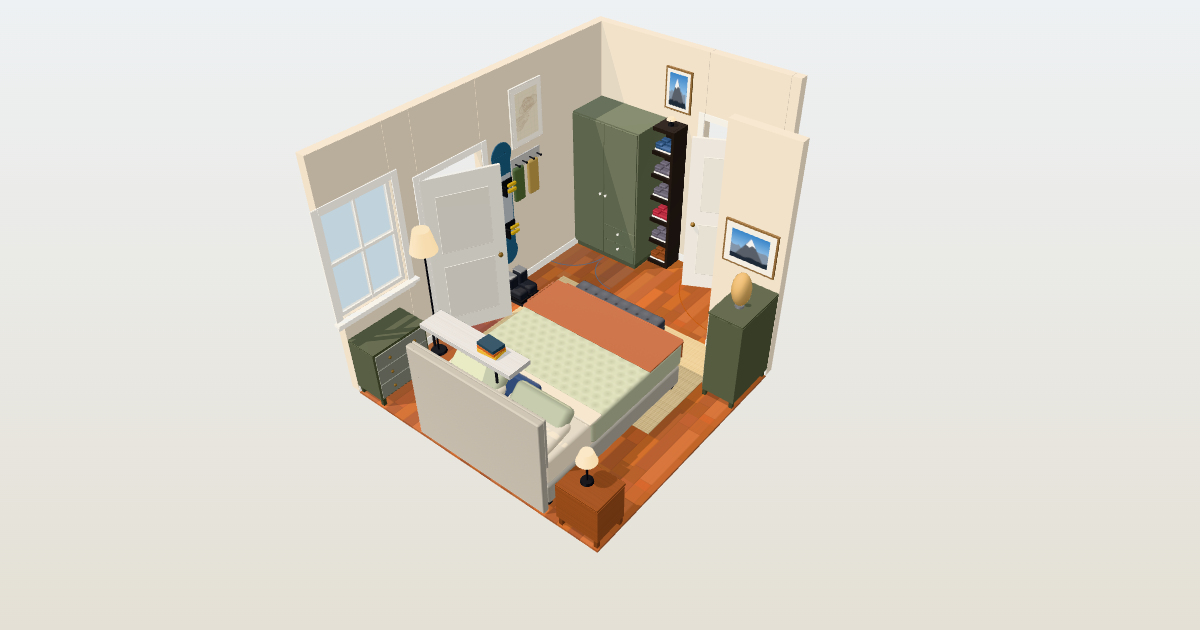
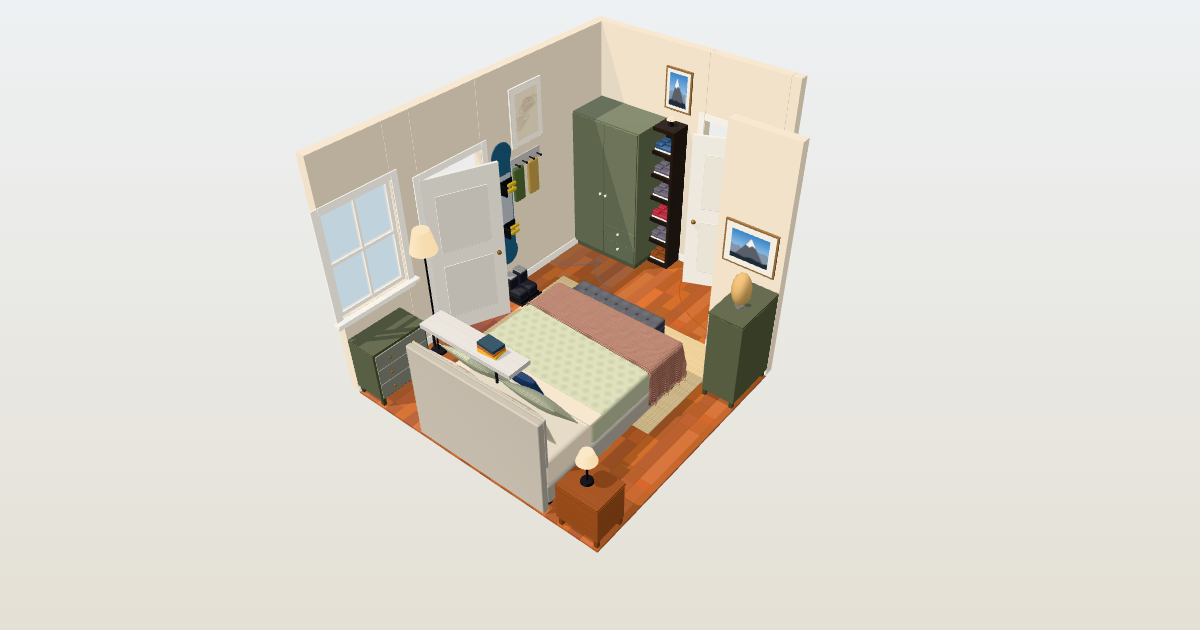
feat(bed): stuffed pillows and a draped knit throw
The pillows and throw were rounded boxes. Each pillow is now a stuffed
shape with a seam, corner ears, creases and an optional head dent: the
linen sleeping pillows stand against the headboard, the quilted shams
lean on them, and a piped, matte indigo lumbar leans on the shams.

The throw is one chunky-knit cloth folded across the foot. It rolls over
the rounded edges, gathers into folds and a scalloped hem as it hangs,
and ends in a knotted fringe. throwRoom() in core.js measures the clear
space beside the foot, so the throw hangs only where there are at least
6 in clear and rests on the bench instead of passing through it. The
window and corner layouts had pushed it 3 to 4 in into a wall.

diff --git a/site/index.html b/site/index.html
@@ -434,9 +434,9 @@ const fabricTex = (() => {
   t.repeat.set(14, 7);
   return t;
 })();
-const fabricMat = c => cached("fabric" + col(c).getHexString(), () => new THREE.MeshPhysicalMaterial({
+const fabricMat = (c, sheen = 0.8) => cached(`fabric${col(c).getHexString()}/${sheen}`, () => new THREE.MeshPhysicalMaterial({
   color: col(c), map: fabricTex, bumpMap: fabricTex, bumpScale: 0.35, roughness: 0.9,
-  sheen: 0.8, sheenRoughness: 0.6, sheenColor: shade(c, 0.4)
+  sheen, sheenRoughness: 0.6, sheenColor: shade(c, 0.4)
 }));
 // Femi's bed is upholstered in a light heather grey: frame, rails and a channel-tufted headboard.
 const BED_FABRIC = "#b8b5ae";
@@ -566,6 +566,151 @@ const rugMat = (c, name, aspect) => cached(`rug${c}/${/jute/.test(name)}/${aspec
   })
 }));
 
+// A stuffed pillow, lying flat: u runs across its width and v along its length, both -1 to 1, and
+// side is 1 for the top and -1 for the underside. The two halves meet at a seam round the edge, the
+// stuffing pulls the middle of each edge in so the corners stick out as ears, the underside settles
+// flatter than the top, creases fan in from each corner, and `dent` sinks the middle where a head goes.
+function pillowPoint(u, v, side, o) {
+  const { w, len, t, seed = 0, dent = 0 } = o;
+  const puff = Math.pow(Math.max(0, (1 - u * u) * (1 - v * v)), 0.55), inset = 0.22 * t;
+  const x = u * (w / 2 - inset * (1 - v * v)), z = v * (len / 2 - inset * (1 - u * u));
+  const cu = 1 - Math.abs(u), cv = 1 - Math.abs(v), corner = Math.exp(-(cu * cu + cv * cv) / 0.07);
+  const crease = 0.1 * t * corner * Math.sin(Math.atan2(cv, cu) * 9 + seed * 2.1 + side) * Math.sqrt(puff);
+  const lump = 0.04 * t * Math.sin(u * 3.1 + seed) * Math.sin(v * 2.6 + seed * 1.7) * puff;
+  let y = (side > 0 ? 1 : 0.75) * side * (t / 2) * puff + crease + lump;
+  if (side > 0) y -= dent * 0.32 * t * Math.exp(-((u / 0.45) ** 2) - ((v / 0.5) ** 2)) * puff;
+  return [x, y, z];
+}
+// Where a point of a cloth laid flat over a bed ends up once it drapes. The bed's top is at `top`,
+// between x0 and x1 and up to its foot at z1, with edges rounded to radius r. Cloth past an edge rolls
+// over it and hangs straight down, past a corner it falls in a cone so the corner hangs lowest, it
+// gathers into folds the further it hangs, and any that reaches the floor lies on it. `rest` is the
+// height of anything past the foot that the cloth lies on.
+function drapePoint(px, pz, b) {
+  const { x0, x1, z1, top, r, floor = 0, seed = 0, folds = 1 } = b;
+  const sx = px > (x0 + x1) / 2 ? 1 : -1, edge = sx > 0 ? x1 : x0;
+  const ex = sx * (px - edge) + r, ez = pz - z1 + r;
+  if (ex <= 0 && ez <= 0) return [px, top, pz];
+  // how far past the start of the rounding, which way it falls, and where it is along the edge
+  let e, dir, s;
+  if (ez <= 0) { e = ex; dir = [sx, 0]; s = ez; }
+  else if (ex <= 0) { e = ez; dir = [0, 1]; s = ez * Math.PI / 2 - ex; }
+  else { e = Math.hypot(ex, ez); const phi = Math.atan2(ez, ex); dir = [sx * Math.cos(phi), Math.sin(phi)]; s = e * phi; }
+  const arc = Math.PI * r / 2;
+  let out = e < arc ? r * Math.sin(e / r) : r, drop = e < arc ? r * (1 - Math.cos(e / r)) : r + e - arc;
+  const hang = folds * Math.min(2.6, Math.max(0, e - r) * 0.2);
+  const fold = hang * (0.5 + 0.3 * Math.sin(s * 0.75 + seed) + 0.2 * Math.sin(s * 1.9 + seed * 3) * Math.cos(s * 0.31 + seed));
+  out += fold;
+  drop -= 0.6 * fold * Math.min(1, Math.max(0, e - arc) / 8);
+  const cx = ex > 0 ? edge - sx * r : px, cz = ez > 0 ? z1 - r : pz;
+  // a surface past the foot, such as a bench, catches the cloth; the catch fades in round the corner
+  // as the cloth moves out over the foot, so the long side's hang meets it without a tear
+  if (b.rest !== undefined && ez > 0) {
+    const k = Math.min(1, Math.max(0, dir[1] * out / r)), limit = (top - b.rest) / Math.max(k * k * (3 - 2 * k), 1e-6);
+    drop = Math.min(drop, limit);
+  }
+  if (top - drop < floor) { out += floor - (top - drop); drop = top - floor; }
+  return [cx + dir[0] * out, top - drop, cz + dir[1] * out];
+}
+// A grid of points as one smooth surface; at(i, j) gives each point and its texture coordinate.
+function gridGeometry(nu, nv, at, flip = false) {
+  const pos = [], uv = [], idx = [];
+  for (let j = 0; j <= nv; j++) for (let i = 0; i <= nu; i++) { const [p, t] = at(i, j); pos.push(...p); uv.push(...t); }
+  for (let j = 0; j < nv; j++) for (let i = 0; i < nu; i++) {
+    const a = j * (nu + 1) + i, b = a + 1, c = a + nu + 1, d = c + 1;
+    idx.push(...(flip ? [a, b, c, b, d, c] : [a, c, b, b, c, d]));
+  }
+  const geo = new THREE.BufferGeometry();
+  geo.setAttribute("position", new THREE.Float32BufferAttribute(pos, 3));
+  geo.setAttribute("uv", new THREE.Float32BufferAttribute(uv, 2));
+  geo.setIndex(idx);
+  geo.computeVertexNormals();
+  return geo;
+}
+// A cord along a run of points, for piping, hems and the folded edge of a throw.
+function cord(g, pts, radius, m, closed = false) {
+  const curve = new THREE.CatmullRomCurve3(pts.map(p => new THREE.Vector3(...p)), closed);
+  g.add(new THREE.Mesh(new THREE.TubeGeometry(curve, pts.length * 2, radius, 6, closed), m));
+}
+// A pillow (see pillowPoint) placed with its middle at (x, y, z). `stand` tips it back from lying
+// flat, in radians, so the far end rests against whatever is behind it. `welt` pipes the seam.
+function pillow(g, { w, len, t, x, y, z, stand = 0, m, under = m, welt, seed = 0, dent = 0 }) {
+  const o = { w, len, t, seed, dent }, n = 40, at = side => (i, j) => {
+    const u = -1 + 2 * i / n, v = -1 + 2 * j / n;
+    return [pillowPoint(u, v, side, o), [i / n, j / n]];
+  };
+  const p = new THREE.Group();
+  p.add(new THREE.Mesh(gridGeometry(n, n, at(1)), m), new THREE.Mesh(gridGeometry(n, n, at(-1), true), under));
+  if (welt) {
+    const ring = [];
+    for (let k = 0; k < 4 * n; k++) {
+      const s = k % n / n * 2 - 1, edge = Math.floor(k / n);
+      ring.push(pillowPoint(...[[s, -1], [1, s], [-s, 1], [-1, -s]][edge], 1, o));
+    }
+    cord(p, ring, 0.22, welt, true);
+  }
+  p.position.set(x, y, z);
+  p.rotation.x = stand;
+  g.add(p);
+  return p;
+}
+// A chunky stocking-stitch knit: columns of V-shaped stitches, each leg a plump twisted loop.
+const knitTex = (() => {
+  const t = canvasTex(256, 256, (g, w, h) => {
+    const r = rng("knit"), cols = 4, rows = 5, cw = w / cols, rh = h / rows;
+    g.fillStyle = "#7c7c7c"; g.fillRect(0, 0, w, h);
+    for (let j = -1; j <= rows; j++) for (let i = 0; i < cols; i++) for (const s of [-1, 1]) {
+      const x = i * cw + cw / 2 + s * cw * 0.2, y = j * rh + rh * 0.5;
+      g.save(); g.translate(x, y); g.rotate(s * 0.5);
+      const lit = 238 + Math.floor(r() * 17), grad = g.createLinearGradient(-cw * 0.2, 0, cw * 0.2, 0);
+      grad.addColorStop(0, "rgb(150,150,150)"); grad.addColorStop(0.45, `rgb(${lit},${lit},${lit})`); grad.addColorStop(1, "rgb(160,160,160)");
+      g.fillStyle = grad; g.beginPath(); g.ellipse(0, 0, cw * 0.19, rh * 0.6, 0, 0, 7); g.fill();
+      // the twist of the yarn across each leg
+      g.strokeStyle = "rgba(0,0,0,.12)"; g.lineWidth = 2;
+      for (let k = -2; k <= 2; k++) { g.beginPath(); g.moveTo(-cw * 0.16, k * rh * 0.2 - 4); g.lineTo(cw * 0.16, k * rh * 0.2 + 4); g.stroke(); }
+      g.restore();
+    }
+  });
+  t.wrapS = t.wrapT = THREE.RepeatWrapping;
+  return t;
+})();
+const knitMat = c => cached("knit" + col(c).getHexString(), () => new THREE.MeshPhysicalMaterial({
+  color: shade(c, 0.18), map: knitTex, bumpMap: knitTex, bumpScale: 3, roughness: 0.95, side: THREE.DoubleSide,
+  sheen: 0.6, sheenRoughness: 0.8, sheenColor: shade(c, 0.35)
+}));
+// A knit throw w by d laid flat with its middle at (cx, cz), turned `turn` radians, then draped over
+// the bed described by `bed` (see drapePoint). It is folded in half, so the edge toward the head is
+// a thick fold; the other edges are hemmed and the short ends finish in a knotted fringe.
+function throwBlanket(g, { w, d, cx, cz, turn = 0, bed, c, seed = 0 }) {
+  const nu = Math.round(w * 1.6), nv = Math.round(d * 1.6), tile = 4.5, m = knitMat(c);
+  const cos = Math.cos(turn), sin = Math.sin(turn), grid = [];
+  for (let j = 0; j <= nv; j++) for (let i = 0; i <= nu; i++) {
+    const lx = -w / 2 + w * i / nu, lz = -d / 2 + d * j / nv;
+    const p = drapePoint(cx + lx * cos - lz * sin, cz + lx * sin + lz * cos, { ...bed, seed });
+    // the knit lies a little loose on top, in soft ripples
+    p[1] += 0.25 * Math.max(0, Math.sin(lx * 0.35 + seed) * Math.sin(lz * 0.5 - seed)) * (p[1] >= bed.top - 0.01 ? 1 : 0);
+    grid.push(p);
+  }
+  const at = (i, j) => grid[j * (nu + 1) + i];
+  g.add(new THREE.Mesh(gridGeometry(nu, nv, (i, j) => [at(i, j), [w * i / nu / tile, d * j / nv / tile]]), m));
+  const row = (j, from, to) => [...Array(Math.abs(to - from) + 1)].map((_, k) => at(from + Math.sign(to - from) * k, j));
+  const column = (i, from, to) => [...Array(Math.abs(to - from) + 1)].map((_, k) => at(i, from + Math.sign(to - from) * k));
+  cord(g, row(0, 0, nu), 0.6, m);
+  cord(g, row(nv, 0, nu), 0.3, m);
+  for (const i of [0, nu]) cord(g, column(i, 0, nv), 0.3, m);
+  // fringe: a knotted tassel every inch or so, carrying on the way the cloth falls
+  const r = rng("fringe" + seed), fringe = M(shade(c, 0.05), 0.95), knot = new THREE.SphereGeometry(0.17, 6, 4);
+  for (const [i, prev] of [[0, 4], [nu, nu - 4]]) for (let j = 1; j < nv; j++) {
+    const p = new THREE.Vector3(...at(i, j)), dir = p.clone().sub(new THREE.Vector3(...at(prev, j))).normalize();
+    dir.x += (r() - 0.5) * 0.15; dir.z += (r() - 0.5) * 0.15; dir.normalize();
+    const len = 1.6 + r() * 0.5, t = new THREE.Mesh(new THREE.CylinderGeometry(0.05, 0.09, len, 4), fringe);
+    t.quaternion.setFromUnitVectors(new THREE.Vector3(0, -1, 0), dir);
+    t.position.copy(p).addScaledVector(dir, 0.3 + len / 2);
+    const k = new THREE.Mesh(knot, fringe);
+    k.position.copy(p).addScaledVector(dir, 0.35);
+    g.add(t, k);
+  }
+}
 /* ---------- furniture models ---------- */
 // Every model is built facing +z, in a frame `a` wide and `dp` deep, with its underside at y = 0.
 const SHOE_COLORS = ["#2b2d33", "#f1efe9", "#8a4b2a", "#3d5a80", "#b23a48", "#5b6e4d", "#c9a227", "#6d6875"];
@@ -617,16 +762,26 @@ const MODELS = {
     const duvet = bxm(g, a + 0.8, mh * 0.8 + 1.2, dl, 0, h - mh * 0.8, foot - dl / 2 + 0.3, side, 1.6);
     duvet.material = [side, side, quiltMat(c, (a + 0.8) / dl), side, side, side];
     bxm(g, a + 1, 1.4, 7, 0, h + 0.5, foot - dl + 2, sheets, 0.6); // sheet turned down over the comforter
-    // sleeping pillows in linen, the comforter's shams leaning in front, and one indigo pillow
-    const pw = (a - 9) / 2, head = zc - len / 2, shams = M(c, 0.95);
-    for (const sx of [-1, 1]) bxm(g, pw, 5, 16, sx * (pw / 2 + 1.5), h - 0.4, head + 10, sheets, 2.2).rotation.x = -0.22;
-    for (const sx of [-1, 1]) bxm(g, pw - 2, 5.5, 15, sx * (pw / 2 + 1.5), h + 1.2, head + 15, shams, 2.4).rotation.x = -0.75;
-    bxm(g, Math.min(20, a * 0.32), 4.5, 10, 0, h + 1.6, head + 20, fabricMat(THEME.accent), 2).rotation.x = -0.6;
-    // a throw folded across the foot: a layer on top, a drape down the foot end and a tail over one side
-    const tl = len * 0.28, cloth = fabricMat(THEME.throw), drop = Math.min(10, h * 0.4);
-    bxm(g, a + 1.6, 0.9, tl, 0, h + 1.2, foot - tl / 2 + 0.3, cloth, 0.4);
-    bxm(g, a * 0.94, drop, 0.9, -a * 0.03, h + 2.1 - drop, foot + 0.75, cloth, 0.4);
-    bxm(g, 0.9, drop + 4, tl * 0.75, a / 2 + 1.25, h + 2.1 - drop - 4, foot - tl * 0.45, cloth, 0.4);
+    // linen sleeping pillows standing against the headboard, the comforter's quilted shams leaning on
+    // them, and one piped indigo lumbar pillow leaning on the shams
+    const pw = (a - 9) / 2, head = zc - len / 2, linen = fabricMat(THEME.sheets);
+    for (const sx of [-1, 1]) pillow(g, { w: pw - 1, len: 19, t: 6.5, x: sx * (pw / 2 + 1.5), y: h + 9.2, z: head + 6.5, stand: 1.25, m: linen, seed: sx, dent: 0.35 });
+    const shamW = pw - 2.5, sham = quiltMat(c, shamW / 20), shamBack = M(c, 0.95);
+    for (const sx of [-1, 1]) pillow(g, { w: shamW, len: 20, t: 6, x: sx * (pw / 2 + 1.5), y: h + 8.9, z: head + 15.6, stand: 0.9, m: sham, under: shamBack, welt: M(shade(c, -0.08), 0.95), seed: 3 + sx });
+    const accent = fabricMat(THEME.accent, 0.2);
+    pillow(g, { w: Math.min(20, a * 0.32), len: 12, t: 5, x: 0, y: h + 6, z: head + 22.6, stand: 1.1, m: accent, welt: M(shade(THEME.accent, -0.35), 0.8), seed: 7 });
+    // a chunky terracotta knit throw folded in half across the foot, a little off square. It hangs
+    // down each long side and just over the foot end (above the bench) where there is room for it,
+    // and stops short of the edge where the bed meets a wall or a piece of furniture.
+    const lift = 0.5, top = h + 1.2 + lift, half = (a + 0.8) / 2 + lift, r = 1.6 + lift, z1 = foot + 0.3 + lift;
+    const room = throwRoom(it), past = drop => drop + top - h - r + Math.PI * r / 2, open = k => room[k] >= 6;
+    const xL = open("left") ? -(half - r + past(THROW_DROP.side)) : -(half - r - 3);
+    const xR = open("right") ? half - r + past(THROW_DROP.side * 0.7) : half - r - 3; // room for the fringe on top
+    const zF = open("foot") ? z1 - r + past(THROW_DROP.foot) : z1 - r - 1.5, zH = z1 - r - 20;
+    throwBlanket(g, {
+      w: xR - xL, d: zF - zH, cx: (xL + xR) / 2, cz: (zH + zF) / 2, turn: open("left") && open("right") ? 0.05 : 0, c: THEME.throw, seed: it.id.length,
+      bed: { x0: -half, x1: half, z1, top, r, floor: 0.2, rest: room.shelf > it.z ? room.shelf - it.z + 0.4 : undefined }
+    });
     if (hb) {
       bxm(g, a, it.headH, hb, 0, 0, -dp / 2 + hb / 2, frame, 0.8);
       const padH = it.headH - h + 2, pad = bxm(g, a - 0.4, padH, 1.2, 0, h - 2, -dp / 2 + hb + 0.6, frame, 0.5);
@@ -1200,7 +1355,8 @@ function sync() {
   if (key !== roomKey) { roomKey = key; buildRoom(); }
   const seen = new Set();
   for (const it of state.items) {
-    const face = frontDir(it), k = JSON.stringify([kindOf(it), it.name, it.w, it.d, it.h, it.color, it.headH, it.headT, face, it.z > 0]);
+    const face = frontDir(it), k = JSON.stringify([kindOf(it), it.name, it.w, it.d, it.h, it.color, it.headH, it.headT, face, it.z > 0,
+      kindOf(it) === "bed" && throwRoom(it)]); // a bed's throw drapes into whatever room its sides have
     let b = built.get(it.id);
     if (!b || b.key !== k) {
       if (b) { wipe(b.group); itemsG.remove(b.group); }

diff --git a/site/core.js b/site/core.js
@@ -229,6 +229,37 @@ function parts(it) {
   }
   return out;
 }
+// How far below the bed's top the 3D throw hangs: down each long side, and over the foot end.
+const THROW_DROP = { side: 16, foot: 5 };
+// Clear inches beside the foot of a bed for the throw to hang into: on the model's left and right
+// (seen from the foot) along the 30 in nearest the foot, and past the foot end. Walls, the in-push
+// and solid pieces count; a piece lower than the throw's hem on that side does not. `shelf` is the
+// top of the tallest such low piece within a foot of the foot end, which the throw lies on.
+function throwRoom(bed) {
+  const r = state.room, foot = frontDir(bed), right = { S: "E", N: "W", E: "N", W: "S" }[foot], top = bed.z + bed.h;
+  const band = { ...bed };
+  if (foot === "N") band.d = Math.min(30, bed.d);
+  if (foot === "S") { band.d = Math.min(30, bed.d); band.y = bed.y + bed.d - band.d; }
+  if (foot === "W") band.w = Math.min(30, bed.w);
+  if (foot === "E") { band.w = Math.min(30, bed.w); band.x = bed.x + bed.w - band.w; }
+  let shelf = 0;
+  const gap = (s, dir, hem) => {
+    const across = dir === "E" || dir === "W"
+      ? o => o.y < s.y + s.d - 0.01 && s.y < o.y + o.d - 0.01
+      : o => o.x < s.x + s.w - 0.01 && s.x < o.x + o.w - 0.01;
+    const away = o => ({ E: o.x - (s.x + s.w), W: s.x - (o.x + o.w), N: s.y - (o.y + o.d), S: o.y - (s.y + s.d) })[dir];
+    let best = { E: r.W - (s.x + s.w), W: s.x, N: s.y, S: r.L - (s.y + s.d) }[dir];
+    const b = bumpRect(), others = b.w > 0 && b.d > 0 ? [b] : [];
+    for (const o of state.items) if (o !== bed && o.solid && o.z < top) {
+      if (topOf(o) > hem) others.push(footprint(o));
+      else if (dir === foot && across(footprint(o)) && away(footprint(o)) > -0.01 && away(footprint(o)) < 12) shelf = Math.max(shelf, topOf(o));
+    }
+    for (const o of others) if (across(o) && away(o) > -0.01) best = Math.min(best, away(o));
+    return Math.max(0, Math.round(best * 100) / 100);
+  };
+  const sides = { left: gap(band, OPPOSITE[right], top - THROW_DROP.side), right: gap(band, right, top - THROW_DROP.side), foot: gap(bed, foot, top - THROW_DROP.foot) };
+  return { ...sides, shelf };
+}
 // Wall segment an opening sits on, plus the unit normal pointing into the room.
 function opSeg(o) {
   const { W, L, bx, by } = state.room, mid = o.off + o.w / 2;

diff --git a/README.md b/README.md
@@ -24,6 +24,13 @@ A planner for Femi's San Francisco bedroom, built from his own measurements. Inc
   foot of the bed, an indigo pillow that echoes his Adire hanging, jute rugs and chests painted deep
   olive. The wardrobe is Behr Laurel Garland (N390-6, about #68705C); chests take Cypress Vine (N390-7),
   one step darker on the same strip. His sheets and sleeping pillows are linen; the shams match the sage comforter.
+- **Pillows and throw** are shaped cloth rather than boxes. Each pillow is a stuffed shape with a
+  seam, corner ears and creases: the linen sleeping pillows stand against the headboard, the
+  quilted shams lean on them, and the piped indigo lumbar leans on the shams. The throw is a
+  chunky knit folded across the foot. It rolls over the edges, gathers into folds as it hangs and
+  ends in a fringe. Past the foot it rests on the bench. It hangs only on sides with at least 6 in
+  clear, so it never passes through a wall or a piece of furniture beside the bed
+  (`throwRoom` in `core.js`).
 - **Gear:** every ready-made layout hangs Femi's snowboard upright on a wall rack, bindings on,
   with his boots on a tray under it. A board's model lies flat instead when it is wider than tall.
   The furniture list also offers a leaning ladder shelf, which the window layout uses on the
